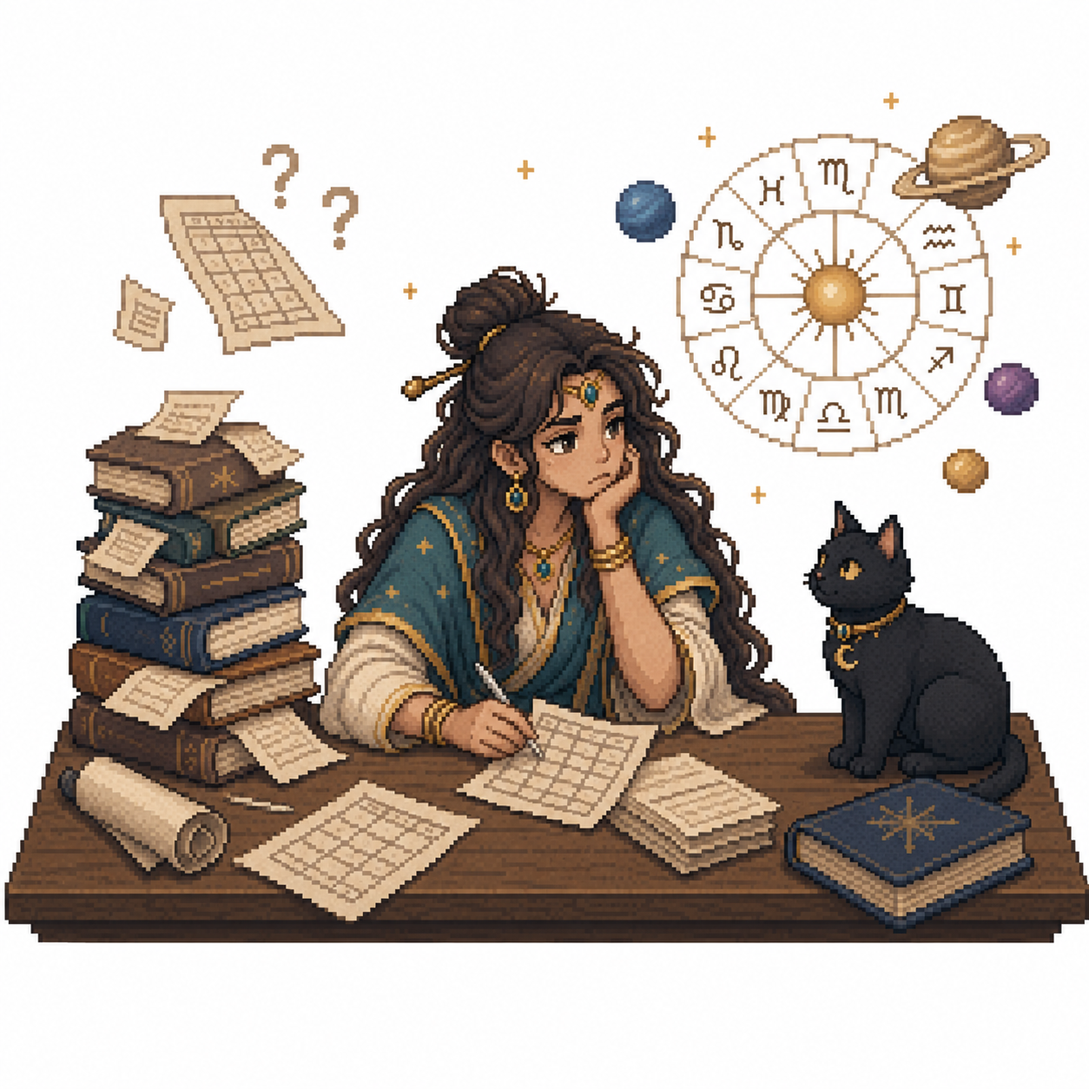
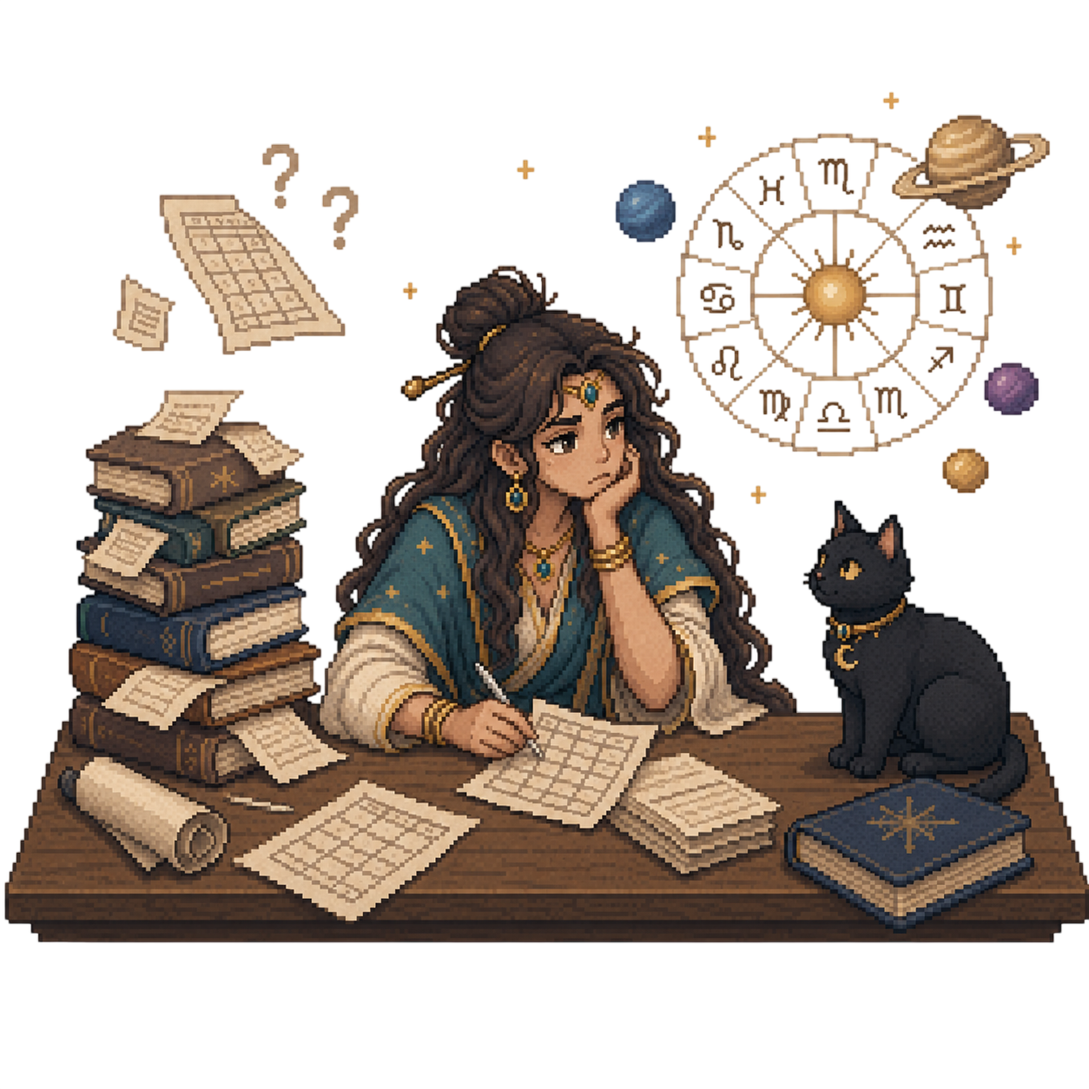
Widen hero-cat lane to full viewport, tighten hero gap, revert fit-cards to grid
- Cat now walks a full-bleed viewport-wide lane (was a narrow box vanishing
  mid-air), bigger and slower, turning only once fully off-screen.
- Pulled the hero text column closer to the illustration.
- Course-fit cards briefly became a one-at-a-time carousel, reverted back to
  the 3-card grid with staggered fly-in reveal per user request.

diff --git a/index.html b/index.html
@@ -3,10 +3,10 @@
   <head>
     <meta charset="UTF-8" />
     <meta name="viewport" content="width=device-width, initial-scale=1.0" />
-    <title>MOKSHA EDUCATION — Джйотиш, который не нужно заучивать</title>
+    <title>MOKSHA EDUCATION — Джйотиш, который не&nbsp;нужно заучивать</title>
     <meta
       name="description"
-      content="Последовательная система обучения джйотиш: от планет и знаков до самостоятельного чтения натальной карты. Обучение проходит внутри пиксельной игры MOKSHA Quest."
+      content="Последовательная система обучения джйотиш: от&nbsp;планет и&nbsp;знаков до&nbsp;самостоятельного чтения натальной карты. Обучение проходит внутри пиксельной игры MOKSHA Quest."
     />
     <link rel="preconnect" href="https://fonts.googleapis.com" />
     <link rel="preconnect" href="https://fonts.gstatic.com" crossorigin />
@@ -14,15 +14,15 @@
       href="https://fonts.googleapis.com/css2?family=Inter:wght@400;500;600;700;800&family=Press+Start+2P&display=swap"
       rel="stylesheet"
     />
-    <link rel="stylesheet" href="landing.css?v=7" />
+    <link rel="stylesheet" href="landing.css?v=10" />
   </head>
   <body>
     <div class="pixel-overlay" aria-hidden="true"></div>
 
     <header class="site-header">
       <nav class="site-header-inner">
-        <a href="#teacher" class="nav-pill">О преподавателе</a>
-        <a href="#practice" class="nav-pill">Из чего состоит курс</a>
+        <a href="#teacher" class="nav-pill">О&nbsp;преподавателе</a>
+        <a href="#practice" class="nav-pill">Из&nbsp;чего состоит курс</a>
         <a href="#depth" class="nav-pill">Особенность обучения</a>
         <a href="#pricing" class="nav-pill nav-pill-primary">Начать приключение</a>
       </nav>
@@ -34,12 +34,12 @@
         <div class="hero-inner">
           <div class="hero-text">
             <h1 class="pixel-heading">Джйотиш</h1>
-            <p class="hero-sub pixel-heading">который не нужно заучивать</p>
+            <p class="hero-sub pixel-heading">который не&nbsp;нужно заучивать</p>
             <p class="hero-lead">
-              Мы создали систему обучения джйотиш через игру. Вы становитесь персонажем,
+              Мы создали систему обучения джйотиш через игру. Вы&nbsp;становитесь персонажем,
               олицетворяющим планету, проживаете сюжет, изучаете древние науки, выполняете
-              интерактивные практические задания и постепенно открываете целый мир планет и
-              божеств.
+              интерактивные практические задания и&nbsp;постепенно открываете целый мир
+              планет и&nbsp;божеств.
             </p>
             <a href="/quest/create-character.html" class="btn btn-primary btn-large">Выбрать персонажа</a>
           </div>
@@ -47,7 +47,7 @@
             <img
               class="hero-scene-float"
               src="/assets/illustrations/hero-scene.png"
-              alt="Деревня джйотиш-мира на фоне гигантского Сатурна"
+              alt="Деревня джйотиш-мира на&nbsp;фоне гигантского Сатурна"
               loading="eager"
             />
           </div>
@@ -80,21 +80,21 @@
             <div class="fit-card">
               <img class="fit-card-img" src="/assets/illustrations/fit-card-1.png" alt="" loading="lazy" />
               <p>
-                Вы уже пробовали изучать джйотиш, но застряли в бесконечных таблицах значений и не
-                можете сложить их в целостную трактовку
+                Вы уже пробовали изучать джйотиш, но&nbsp;застряли в&nbsp;бесконечных таблицах значений и&nbsp;не
+                можете сложить их&nbsp;в&nbsp;целостную трактовку
               </p>
             </div>
             <div class="fit-card">
               <img class="fit-card-img" src="/assets/illustrations/fit-card-2.png" alt="" loading="lazy" />
               <p>
-                Вам важно не запомнить, а понять принцип — чтобы самостоятельно читать любую
-                натальную карту, а не искать готовые ответы.
+                Вам важно не&nbsp;запомнить, а&nbsp;понять принцип — чтобы самостоятельно читать любую
+                натальную карту, а&nbsp;не&nbsp;искать готовые ответы.
               </p>
             </div>
             <div class="fit-card">
               <img class="fit-card-img" src="/assets/illustrations/fit-card-3.png" alt="" loading="lazy" />
               <p>
-                Вы только начинаете и не хотите зубрить сотни готовых комбинаций «планета в доме»
+                Вы только начинаете и&nbsp;не&nbsp;хотите зубрить сотни готовых комбинаций «планета в&nbsp;доме»
               </p>
             </div>
           </div>
@@ -107,21 +107,21 @@
           <div class="difference-grid">
             <div>
               <h2 class="pixel-heading difference-heading">
-                Большинство сложностей в джйотиш начинается
-                <span class="hl">не с нехватки знаний</span>, а в тот момент, когда нужно
-                соединить <span class="hl">сотни отдельных значений</span> в одну
+                Большинство сложностей в&nbsp;джйотиш начинается
+                <span class="hl">не&nbsp;с нехватки знаний</span>, а&nbsp;в тот момент, когда нужно
+                соединить <span class="hl">сотни отдельных значений</span> в&nbsp;одну
                 <span class="hl">целостную трактовку.</span>
               </h2>
 
               <p class="difference-text">
-                Можно выучить характеристики планет, знаков, домов и накшатр — но, открывая
-                реальную натальную карту, снова не понимать, с чего начать и как связать всё это
+                Можно выучить характеристики планет, знаков, домов и&nbsp;накшатр — но, открывая
+                реальную натальную карту, снова не&nbsp;понимать, с&nbsp;чего начать и&nbsp;как связать всё это
                 между собой.
               </p>
               <p class="difference-text">
                 В результате знания остаются <strong>разрозненными</strong>: значения приходится
-                постоянно вспоминать или искать в таблицах, выученное забывается, а
-                <strong>уверенности</strong> в самостоятельном чтении карты так и не появляется.
+                постоянно вспоминать или искать в&nbsp;таблицах, выученное забывается, а
+                <strong>уверенности</strong> в&nbsp;самостоятельном чтении карты так и&nbsp;не&nbsp;появляется.
               </p>
             </div>
 
@@ -137,7 +137,7 @@
         <div class="section-inner">
           <p class="pixel-heading tagline">
             Мы создали игровую форму обучения… знание закладывается без зубрёжки — просто
-            остаётся с вами
+            остаётся с&nbsp;вами
           </p>
         </div>
       </section>
@@ -146,7 +146,7 @@
       <section class="section">
         <div class="section-inner">
           <div class="console-wrap" id="console-wrap">
-            <img class="console-frame-img" src="/assets/illustrations/console-frame.png" alt="Игровая приставка с натальной картой" />
+            <img class="console-frame-img" src="/assets/illustrations/console-frame.png" alt="Игровая приставка с&nbsp;натальной картой" />
             <div class="console-chart-zone" id="chart-zone">
               <!-- house drop zones injected by JS -->
               <img class="draggable-planet" src="/assets/illustrations/planet-saturn.png" alt="Сатурн" style="left:20%; top:75%;" data-planet="saturn" />
@@ -154,7 +154,7 @@
               <img class="draggable-planet" src="/assets/illustrations/planet-jupiter.png" alt="Юпитер" style="left:80%; top:75%;" data-planet="jupiter" />
             </div>
           </div>
-          <p class="console-caption">Можешь переместить планеты на карте в любой из домов</p>
+          <p class="console-caption">Можешь переместить планеты на&nbsp;карте в&nbsp;любой из&nbsp;домов</p>
         </div>
       </section>
 
@@ -164,22 +164,21 @@
           <div class="depth-grid">
             <div>
               <h2 class="pixel-heading depth-heading">
-                Единый путь от основ к глубокому чтению карты
+                Единый путь от&nbsp;основ к&nbsp;глубокому чтению карты
               </h2>
               <p class="depth-text">Вместо разрозненных знаний — одна последовательная система.</p>
               <p class="depth-text">
-                Вы шаг за шагом погружаетесь в джйотиш: каждый новый уровень опирается на
-                предыдущий и открывает более глубокий слой натальной карты.
+                Вы шаг за&nbsp;шагом погружаетесь в&nbsp;джйотиш: каждый новый уровень опирается на
+                предыдущий и&nbsp;открывает более глубокий слой натальной карты.
               </p>
               <p class="depth-text">
-                Как у <strong>айсберга</strong>: сначала вы осваиваете то, что лежит на
-                поверхности, затем постепенно учитесь видеть скрытые уровни карты и соединять их
-                в целостную трактовку.
+                Как у <strong>айсберга</strong>: сначала вы осваиваете то, что лежит на&nbsp;поверхности,
+                затем постепенно учитесь видеть скрытые уровни и&nbsp;соединять их&nbsp;в&nbsp;целостную трактовку.
               </p>
             </div>
 
             <div class="iceberg-visual reveal">
-              <img class="iceberg-swing" src="/assets/illustrations/iceberg.png" alt="Айсберг: видимая и скрытая глубина карты" />
+              <img class="iceberg-swing" src="/assets/illustrations/iceberg.png" alt="Айсберг: видимая и&nbsp;скрытая глубина карты" />
               <div class="iceberg-labels">
                 <span class="iceberg-label">Планета</span>
                 <span class="iceberg-label">Знаки</span>
@@ -205,26 +204,26 @@
               <div class="carousel-slide">
                 <img src="/assets/illustrations/practice-cinema.png" alt="Кинофрагмент для разбора" loading="lazy" />
                 <p>
-                  Учимся видеть джйотиш в знакомых образах. Смотрим сцены из кино и определяем,
-                  какая гуна, планета, знак или накшатра проявляется в характере героя и его
-                  поведении. Так абстрактные значения превращаются в живые и запоминающиеся
+                  Учимся видеть джйотиш в&nbsp;знакомых образах. Смотрим сцены из&nbsp;кино и&nbsp;определяем,
+                  какая гуна, планета, знак или накшатра проявляется в&nbsp;характере героя и&nbsp;его
+                  поведении. Так абстрактные значения превращаются в&nbsp;живые и&nbsp;запоминающиеся
                   образы.
                 </p>
               </div>
               <div class="carousel-slide">
                 <img src="/assets/illustrations/practice-chart.png" alt="Разбор реальной натальной карты" loading="lazy" />
                 <p>
-                  Переходим к настоящей практике астролога. Последовательно учимся читать реальные
-                  карты, соединять отдельные показатели в целостную трактовку и разбираем карты
-                  участников, их близких и другие практические примеры.
+                  Переходим к&nbsp;настоящей практике астролога. Последовательно учимся читать реальные
+                  карты, соединять отдельные показатели в&nbsp;целостную трактовку и&nbsp;разбираем карты
+                  участников, их близких и&nbsp;другие практические примеры.
                 </p>
               </div>
               <div class="carousel-slide">
                 <img src="/assets/illustrations/practice-phone.png" alt="Голосовое практическое задание" loading="lazy" />
                 <p>
-                  Не просто читаем теорию, а постоянно применяем её. Определяем проявления планет
-                  по голосу и речи, находим верные утверждения, соединяем понятия и значения,
-                  сравниваем признаки и решаем небольшие практические задачи.
+                  Не просто читаем теорию, а&nbsp;постоянно применяем её. Определяем проявления планет
+                  по&nbsp;голосу и&nbsp;речи, находим верные утверждения, соединяем понятия и&nbsp;значения,
+                  сравниваем признаки и&nbsp;решаем небольшие практические задачи.
                 </p>
               </div>
             </div>
@@ -247,7 +246,7 @@
           </h2>
           <div class="placeholder-card">
             <img src="/assets/illustrations/sun-emblem.png" alt="" />
-            <p>Здесь появится рассказ о преподавателе: фото, опыт, философия обучения.</p>
+            <p>Здесь появится рассказ о&nbsp;преподавателе: фото, опыт, философия обучения.</p>
           </div>
         </div>
       </section>
@@ -260,7 +259,7 @@
             Блок в разработке
           </h2>
           <div class="placeholder-card">
-            <p>Здесь появятся варианты входа в обучение — с какого блока и уровня начать.</p>
+            <p>Здесь появятся варианты входа в&nbsp;обучение — с&nbsp;какого блока и&nbsp;уровня начать.</p>
           </div>
           <a href="/quest/" class="btn btn-primary btn-large" style="margin-top:24px;">Начать обучение</a>
         </div>
@@ -272,6 +271,6 @@
       <span>MOKSHA EDUCATION</span>
     </footer>
 
-    <script src="landing.js?v=2"></script>
+    <script src="landing.js?v=4"></script>
   </body>
 </html>

diff --git a/landing.css b/landing.css
@@ -205,12 +205,12 @@ main {
 }
 
 .hero-inner {
-  max-width: 1180px;
+  max-width: 1320px;
   margin: 0 auto;
   padding: 0 20px;
   display: grid;
-  grid-template-columns: minmax(280px, 460px) 1fr;
-  gap: 30px;
+  grid-template-columns: minmax(280px, 400px) 1fr;
+  gap: 8px;
   align-items: center;
 }
 
@@ -295,9 +295,13 @@ main {
 }
 
 .hero-scene-float {
+  width: 100%;
+  max-width: 900px;
+  height: auto;
   animation: hero-float 7s ease-in-out infinite;
   transform-origin: 50% 85%;
   will-change: transform;
+  justify-self: end;
 }
 
 @keyframes hero-float {
@@ -793,10 +797,6 @@ main {
     margin-right: auto;
   }
 
-  .fit-grid {
-    grid-template-columns: repeat(2, 1fr);
-  }
-
   .difference-grid {
     grid-template-columns: 1fr;
     text-align: center;
@@ -824,6 +824,10 @@ main {
     grid-template-columns: 1fr;
     text-align: center;
   }
+
+  .fit-grid {
+    grid-template-columns: repeat(2, 1fr);
+  }
 }
 
 @media (max-width: 640px) {
@@ -836,11 +840,11 @@ main {
     padding: 10px 14px;
   }
 
-  .fit-grid {
-    grid-template-columns: 1fr;
-  }
-
   .hero {
     padding: 34px 0 20px;
+  }
+
+  .fit-grid {
+    grid-template-columns: 1fr;
   }
 }

diff --git a/landing.js b/landing.js
@@ -38,13 +38,15 @@
     }, 150);
   }
 
-  /* ---- Carousel ---- */
-  const track = document.getElementById('carousel-track');
-  if (track) {
+  /* ---- Carousel (generic: track + prev/next arrows + dots) ---- */
+  function setupCarousel(trackId, prevId, nextId, dotsId) {
+    const track = document.getElementById(trackId);
+    if (!track) return;
+
     const slides = [...track.children];
-    const dotsWrap = document.getElementById('carousel-dots');
-    const prevBtn = document.getElementById('carousel-prev');
-    const nextBtn = document.getElementById('carousel-next');
+    const dotsWrap = document.getElementById(dotsId);
+    const prevBtn = document.getElementById(prevId);
+    const nextBtn = document.getElementById(nextId);
 
     slides.forEach((_, i) => {
       const dot = document.createElement('button');
@@ -79,6 +81,8 @@
       scrollTimer = setTimeout(updateDots, 80);
     });
   }
+
+  setupCarousel('carousel-track', 'carousel-prev', 'carousel-next', 'carousel-dots');
 
   /* ---- Draggable planets on the console chart ---- */
   const chartZone = document.getElementById('chart-zone');
